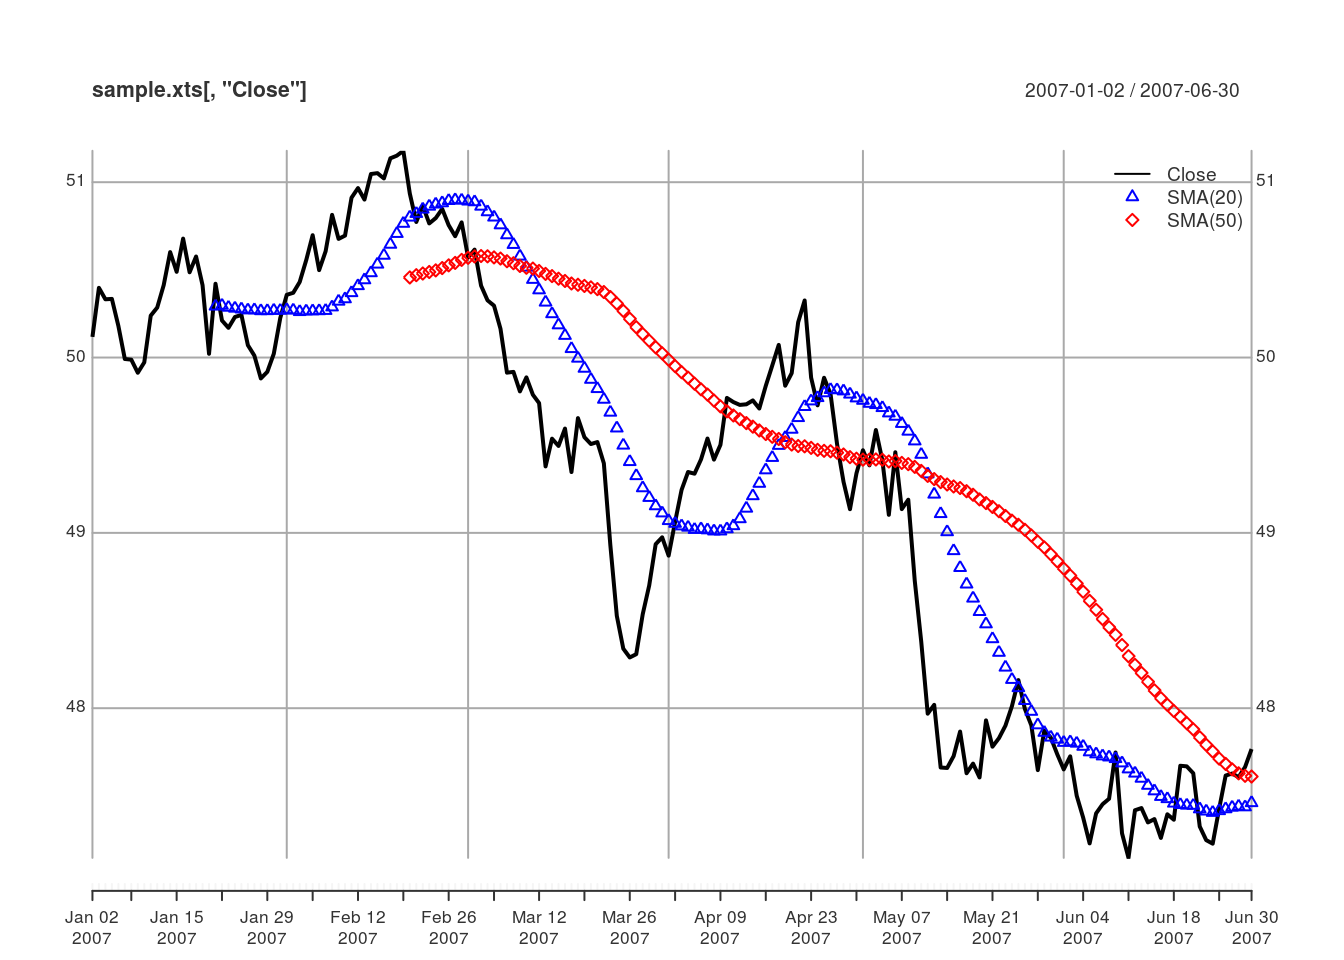
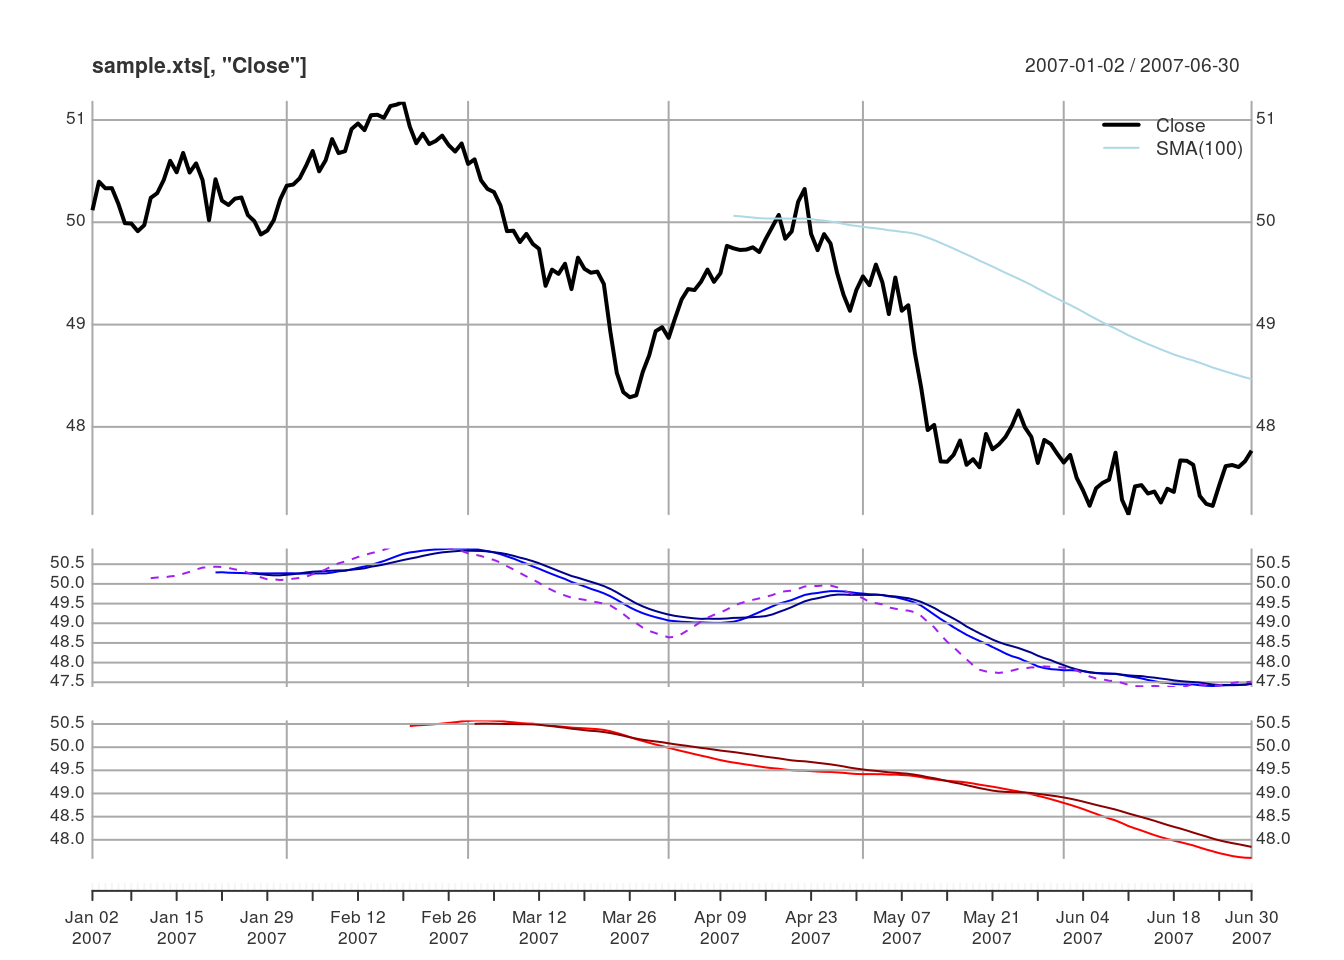
adding content and regenerating site
Added content and made revisions to plotting basics and panels articles
based on the new default functionality of lines, points, addLegend, and
addEventLines to draw on the current panel

diff --git a/plotting_basics.html b/plotting_basics.html
@@ -183,6 +183,8 @@ img {
 </div>
 
 
+<div id="basics" class="section level3">
+<h3>Basics</h3>
 <p>Load the xts package and some sample data</p>
 <pre class="r"><code>library(xts)</code></pre>
 <pre><code>## Loading required package: zoo
@@ -215,28 +217,73 @@ plot(sample.xts, FUN=simple.ret, col.name=&quot;Close&quot;, type=&quot;h&quot;)
 <pre><code>## Warning in plot.xts(sample.xts, FUN = simple.ret, col.name = &quot;Close&quot;, type
 ## = &quot;h&quot;): only the univariate series will be plotted</code></pre>
 <p><img src="plotting_basics_files/figure-html/unnamed-chunk-5-1.png" title="" alt="" width="672" /><img src="plotting_basics_files/figure-html/unnamed-chunk-5-2.png" title="" alt="" width="672" /></p>
-<p>Here we start with a basic plot, then add moving average lines, and a legend.</p>
+</div>
+<div id="lines" class="section level3">
+<h3>Lines</h3>
+<p>Here we start with a basic plot, then add moving average lines, and a legend. The default behavior for <code>lines</code> is to add to the current panel. The current panel is defined as the panel on which the most recent action was performed. Note that the default for behavior for <code>addLegend</code> is to add to the current panel.</p>
 <pre class="r"><code>plot(sample.xts[,&quot;Close&quot;])
-lines(TTR::SMA(sample.xts[,&quot;Close&quot;], n = 20), on=1, col=&quot;blue&quot;)
-lines(TTR::SMA(sample.xts[,&quot;Close&quot;], n = 50), on=1, col=&quot;red&quot;, lty=2)
+lines(TTR::SMA(sample.xts[,&quot;Close&quot;], n = 20), col=&quot;blue&quot;)
+lines(TTR::SMA(sample.xts[,&quot;Close&quot;], n = 50), col=&quot;red&quot;, lty=2)
 
 # add legend to panel 1
-addLegend(&quot;topright&quot;, on=1, 
-          legend.names = c(&quot;Close&quot;, &quot;SMA(20)&quot;, &quot;SMA(50)&quot;), 
+addLegend(&quot;topright&quot;, legend.names = c(&quot;Close&quot;, &quot;SMA(20)&quot;, &quot;SMA(50)&quot;), 
           lty=c(1, 1, 2), lwd=c(2, 1, 1),
           col=c(&quot;black&quot;, &quot;blue&quot;, &quot;red&quot;))</code></pre>
 <p><img src="plotting_basics_files/figure-html/unnamed-chunk-6-1.png" title="" alt="" width="672" /></p>
-<p>We can also add points to a plot in the same way we added lines</p>
+<p>A new panel is drawn by specifying <code>on=NA</code>. To draw lines on a specific panel, pass an integer corresponding to the panel number to <code>on</code>.</p>
 <pre class="r"><code>plot(sample.xts[,&quot;Close&quot;])
-points(TTR::SMA(sample.xts[,&quot;Close&quot;], n = 20), on=1, col=&quot;blue&quot;, pch=2)
-points(TTR::SMA(sample.xts[,&quot;Close&quot;], n = 50), on=1, col=&quot;red&quot;, pch=5)
+# add a new panel
+lines(TTR::SMA(sample.xts[,&quot;Close&quot;], n = 20), on=NA, col=&quot;blue&quot;)
+# add a new panel
+lines(TTR::SMA(sample.xts[,&quot;Close&quot;], n = 50), on=NA, col=&quot;red&quot;)
+# draw a line on panel 3
+lines(TTR::SMA(sample.xts[,&quot;Close&quot;], n = 60), on=3, col=&quot;darkred&quot;)
+# draw a line on panel 2
+lines(TTR::SMA(sample.xts[,&quot;Close&quot;], n = 25), on=2, col=&quot;darkblue&quot;)
+# draw a line on the current panel
+lines(TTR::SMA(sample.xts[,&quot;Close&quot;], n = 10), col=&quot;purple&quot;, lty=2)
+# draw a line on panel 1
+lines(TTR::SMA(sample.xts[,&quot;Close&quot;], n = 100), on=1, col=&quot;lightblue&quot;)
+
+# add legend to the current panel
+addLegend(&quot;topright&quot;, legend.names = c(&quot;Close&quot;, &quot;SMA(100)&quot;), 
+          lty=c(1, 1), lwd=c(2, 1),
+          col=c(&quot;black&quot;, &quot;lightblue&quot;))</code></pre>
+<p><img src="plotting_basics_files/figure-html/unnamed-chunk-7-1.png" title="" alt="" width="672" /></p>
+</div>
+<div id="points" class="section level3">
+<h3>Points</h3>
+<p>We can also add points to a plot in the same way we added lines. The default behavior for <code>points</code> is the same as <code>lines</code>, which is to draw the points on on the current panel.</p>
+<pre class="r"><code>plot(sample.xts[,&quot;Close&quot;])
+points(TTR::SMA(sample.xts[,&quot;Close&quot;], n = 20), col=&quot;blue&quot;, pch=2)
+points(TTR::SMA(sample.xts[,&quot;Close&quot;], n = 50), col=&quot;red&quot;, pch=5)
 
 # add legend to panel 1
-addLegend(&quot;topright&quot;, on=1, 
-          legend.names = c(&quot;Close&quot;, &quot;SMA(20)&quot;, &quot;SMA(50)&quot;), 
+addLegend(&quot;topright&quot;, legend.names = c(&quot;Close&quot;, &quot;SMA(20)&quot;, &quot;SMA(50)&quot;), 
           lty=c(1, NA, NA), pch=c(NA, 2, 5),
           col=c(&quot;black&quot;, &quot;blue&quot;, &quot;red&quot;))</code></pre>
-<p><img src="plotting_basics_files/figure-html/unnamed-chunk-7-1.png" title="" alt="" width="672" /></p>
+<p><img src="plotting_basics_files/figure-html/unnamed-chunk-8-1.png" title="" alt="" width="672" /></p>
+</div>
+<div id="event-lines" class="section level3">
+<h3>Event Lines</h3>
+<p><code>addEventLines</code> will draw lines on the current panel just as in <code>lines</code>, <code>points</code>, and <code>addLegend</code>.</p>
+<pre class="r"><code>plot(sample.xts[,4])
+addEventLines(c(&quot;2007-03-20&quot;,&quot;2007-05-28&quot;), c(&quot;foo&quot;, &quot;bar&quot;))
+addEventLines(c(&quot;2007-03-20&quot;,&quot;2007-05-28&quot;), c(&quot;foo&quot;, &quot;bar&quot;), 
+              offset=1.2, pos=2, , srt=90, cex=1.5)
+addEventLines(c(&quot;2007-03-20&quot;,&quot;2007-05-28&quot;), c(&quot;foo&quot;, &quot;bar&quot;), 
+              offset=1.2, pos=4, , srt=-90, cex=1.5)</code></pre>
+<p><img src="plotting_basics_files/figure-html/unnamed-chunk-9-1.png" title="" alt="" width="672" /></p>
+<p>Event lines can be drawn on a specific panel by specifying an integer corresponding to the desired panel for <code>on</code>. A new panel is drawn if <code>on=NA</code>.</p>
+<pre class="r"><code>plot(sample.xts[,&quot;Close&quot;])
+# add a new panel
+lines(TTR::SMA(sample.xts[,&quot;Close&quot;], n = 20), on=NA, col=&quot;blue&quot;)
+# add a new panel
+lines(TTR::SMA(sample.xts[,&quot;Close&quot;], n = 50), on=NA, col=&quot;red&quot;)
+addEventLines(c(&quot;2007-03-20&quot;,&quot;2007-05-28&quot;), c(&quot;foo&quot;, &quot;bar&quot;), on=1,
+              offset=.4, pos=2, srt=90, cex=1.5, col=&quot;red&quot;)</code></pre>
+<p><img src="plotting_basics_files/figure-html/unnamed-chunk-10-1.png" title="" alt="" width="672" /></p>
+</div>
 
 
 <!-- some extra javascript for older browsers -->

diff --git a/plotting_panels.html b/plotting_panels.html
@@ -183,6 +183,8 @@ img {
 </div>
 
 
+<div id="psnel-basics" class="section level3">
+<h3>Psnel Basics</h3>
 <p>Load the xts package and some sample OHLC data. The PerformanceAnalytics package is loaded for functions that will be used in the examples and the edhec dataset of EDHEC composite hedge fund style index returns.</p>
 <pre class="r"><code>library(xts)</code></pre>
 <pre><code>## Loading required package: zoo
@@ -203,16 +205,22 @@ img {
 sample.xts &lt;- as.xts(sample_matrix)</code></pre>
 <p>Create a basic plot and add a panel of the simple returns</p>
 <pre class="r"><code>plot(sample.xts[,&quot;Close&quot;])
-lines(Return.calculate(sample.xts[,&quot;Close&quot;]), type=&quot;h&quot;)</code></pre>
+lines(Return.calculate(sample.xts[,&quot;Close&quot;]), type=&quot;h&quot;, on=NA)</code></pre>
 <p><img src="plotting_panels_files/figure-html/unnamed-chunk-2-1.png" title="" alt="" width="672" /></p>
 <p>We can also create the same plot by using the <code>panels</code> argument.</p>
 <pre class="r"><code>plot(sample.xts[,&quot;Close&quot;], 
-     panels=&#39;lines(Return.calculate(sample.xts[,&quot;Close&quot;]), type=&quot;h&quot;)&#39;)</code></pre>
+     panels=&#39;lines(Return.calculate(sample.xts[,&quot;Close&quot;]), type=&quot;h&quot;, on=NA)&#39;)</code></pre>
 <p><img src="plotting_panels_files/figure-html/unnamed-chunk-3-1.png" title="" alt="" width="672" /></p>
+</div>
+<div id="multiple-panels" class="section level3">
+<h3>Multiple Panels</h3>
 <p>Load the edhec data from PerformanceAnalytics. Here will use the first 4 columns of the edhec returns data to demonstrate panel and small multiples functionality.</p>
 <pre class="r"><code>data(edhec)
 R &lt;- edhec[,1:4]
 head(R)</code></pre>
+<pre><code>## Warning: index class is Date, which does not support timezones.
+## Expected &#39;UTC&#39; timezone, but indexTZ is GMT</code></pre>
+<pre><code>## Warning: timezone of object (GMT) is different than current timezone ().</code></pre>
 <pre><code>##            Convertible Arbitrage CTA Global Distressed Securities
 ## 1997-01-31                0.0119     0.0393                0.0178
 ## 1997-02-28                0.0123     0.0298                0.0122
@@ -247,8 +255,11 @@ plot(R, multi.panel=2, type=&quot;h&quot;)</code></pre>
 plot(R, multi.panel=1, type=&quot;h&quot;)</code></pre>
 <p><img src="plotting_panels_files/figure-html/unnamed-chunk-9-1.png" title="" alt="" width="672" /></p>
 <pre class="r"><code>layout(matrix(1))</code></pre>
+</div>
+<div id="custom-panels" class="section level3">
+<h3>Custom Panels</h3>
 <p>Define a custom function to add a drawdowns panel.</p>
-<pre class="r"><code>addDrawdowns &lt;- function(){
+<pre class="r"><code>addDrawdowns &lt;- function(main = &quot;Drawdowns&quot;, col=&quot;black&quot;, on=NA, ...){
   # Get the current charting object (i.e. chob) and extract the data
   plot_object &lt;- xts:::current.xts_chob()
   x &lt;- plot_object$Env$xdata
@@ -256,7 +267,7 @@ plot(R, multi.panel=1, type=&quot;h&quot;)</code></pre>
   # compute the drawdowns
   dd &lt;- PerformanceAnalytics:::Drawdowns(x)
   # simply call addSeries with the computed data 
-  addSeries(dd, main = &quot;Drawdowns&quot;, col=&quot;black&quot;)
+  addSeries(dd, main=main, col=col, on=on, ...)
 }</code></pre>
 <pre class="r"><code>plot(R[,1], type=&quot;h&quot;)
 addDrawdowns()</code></pre>
@@ -267,7 +278,7 @@ plot(R, type=&quot;h&quot;, multi.panel=1, panels=&quot;addDrawdowns()&quot;)</c
 <p><img src="plotting_panels_files/figure-html/unnamed-chunk-12-1.png" title="" alt="" width="672" /></p>
 <pre class="r"><code>layout(matrix(1))</code></pre>
 <p>Another example of a custom panel function is to add a rolling Expected Shortfall to the main panel.</p>
-<pre class="r"><code>addrollingES &lt;- function(gap=50, p=0.95, method=&quot;historical&quot;, ...){
+<pre class="r"><code>addrollingES &lt;- function(gap=50, p=0.95, method=&quot;historical&quot;, on=1, ...){
   # Get the current charting object (i.e. chob) and extract the data
   plot_object &lt;- xts:::current.xts_chob()
   x &lt;- plot_object$Env$xdata
@@ -275,14 +286,14 @@ plot(R, type=&quot;h&quot;, multi.panel=1, panels=&quot;addDrawdowns()&quot;)</c
   # compute the rolling Expected Shortfall
   rollingES &lt;- as.xts(apply.fromstart(x, FUN=&quot;ES&quot;, gap=gap, p=p, method=method))
   # simply call addSeries with the computed data 
-  addSeries(rollingES, on=1, ...)
+  addSeries(rollingES, on=on, ...)
 }</code></pre>
 <pre class="r"><code>plot(R[,1], type=&quot;h&quot;, main=&quot;Convertible Arbitrage Returns&quot;)
 addrollingES(lty=2, col=&quot;blue&quot;, lwd=2)
-addLegend(&quot;topleft&quot;, on=1, 
-          legend.names = &quot;Historical 95% ES&quot;, 
+addLegend(&quot;topleft&quot;, legend.names = &quot;Historical 95% ES&quot;, 
           lty=2, lwd=2, col=&quot;blue&quot;)</code></pre>
 <p><img src="plotting_panels_files/figure-html/unnamed-chunk-14-1.png" title="" alt="" width="672" /></p>
+</div>
 
 
 <!-- some extra javascript for older browsers -->
